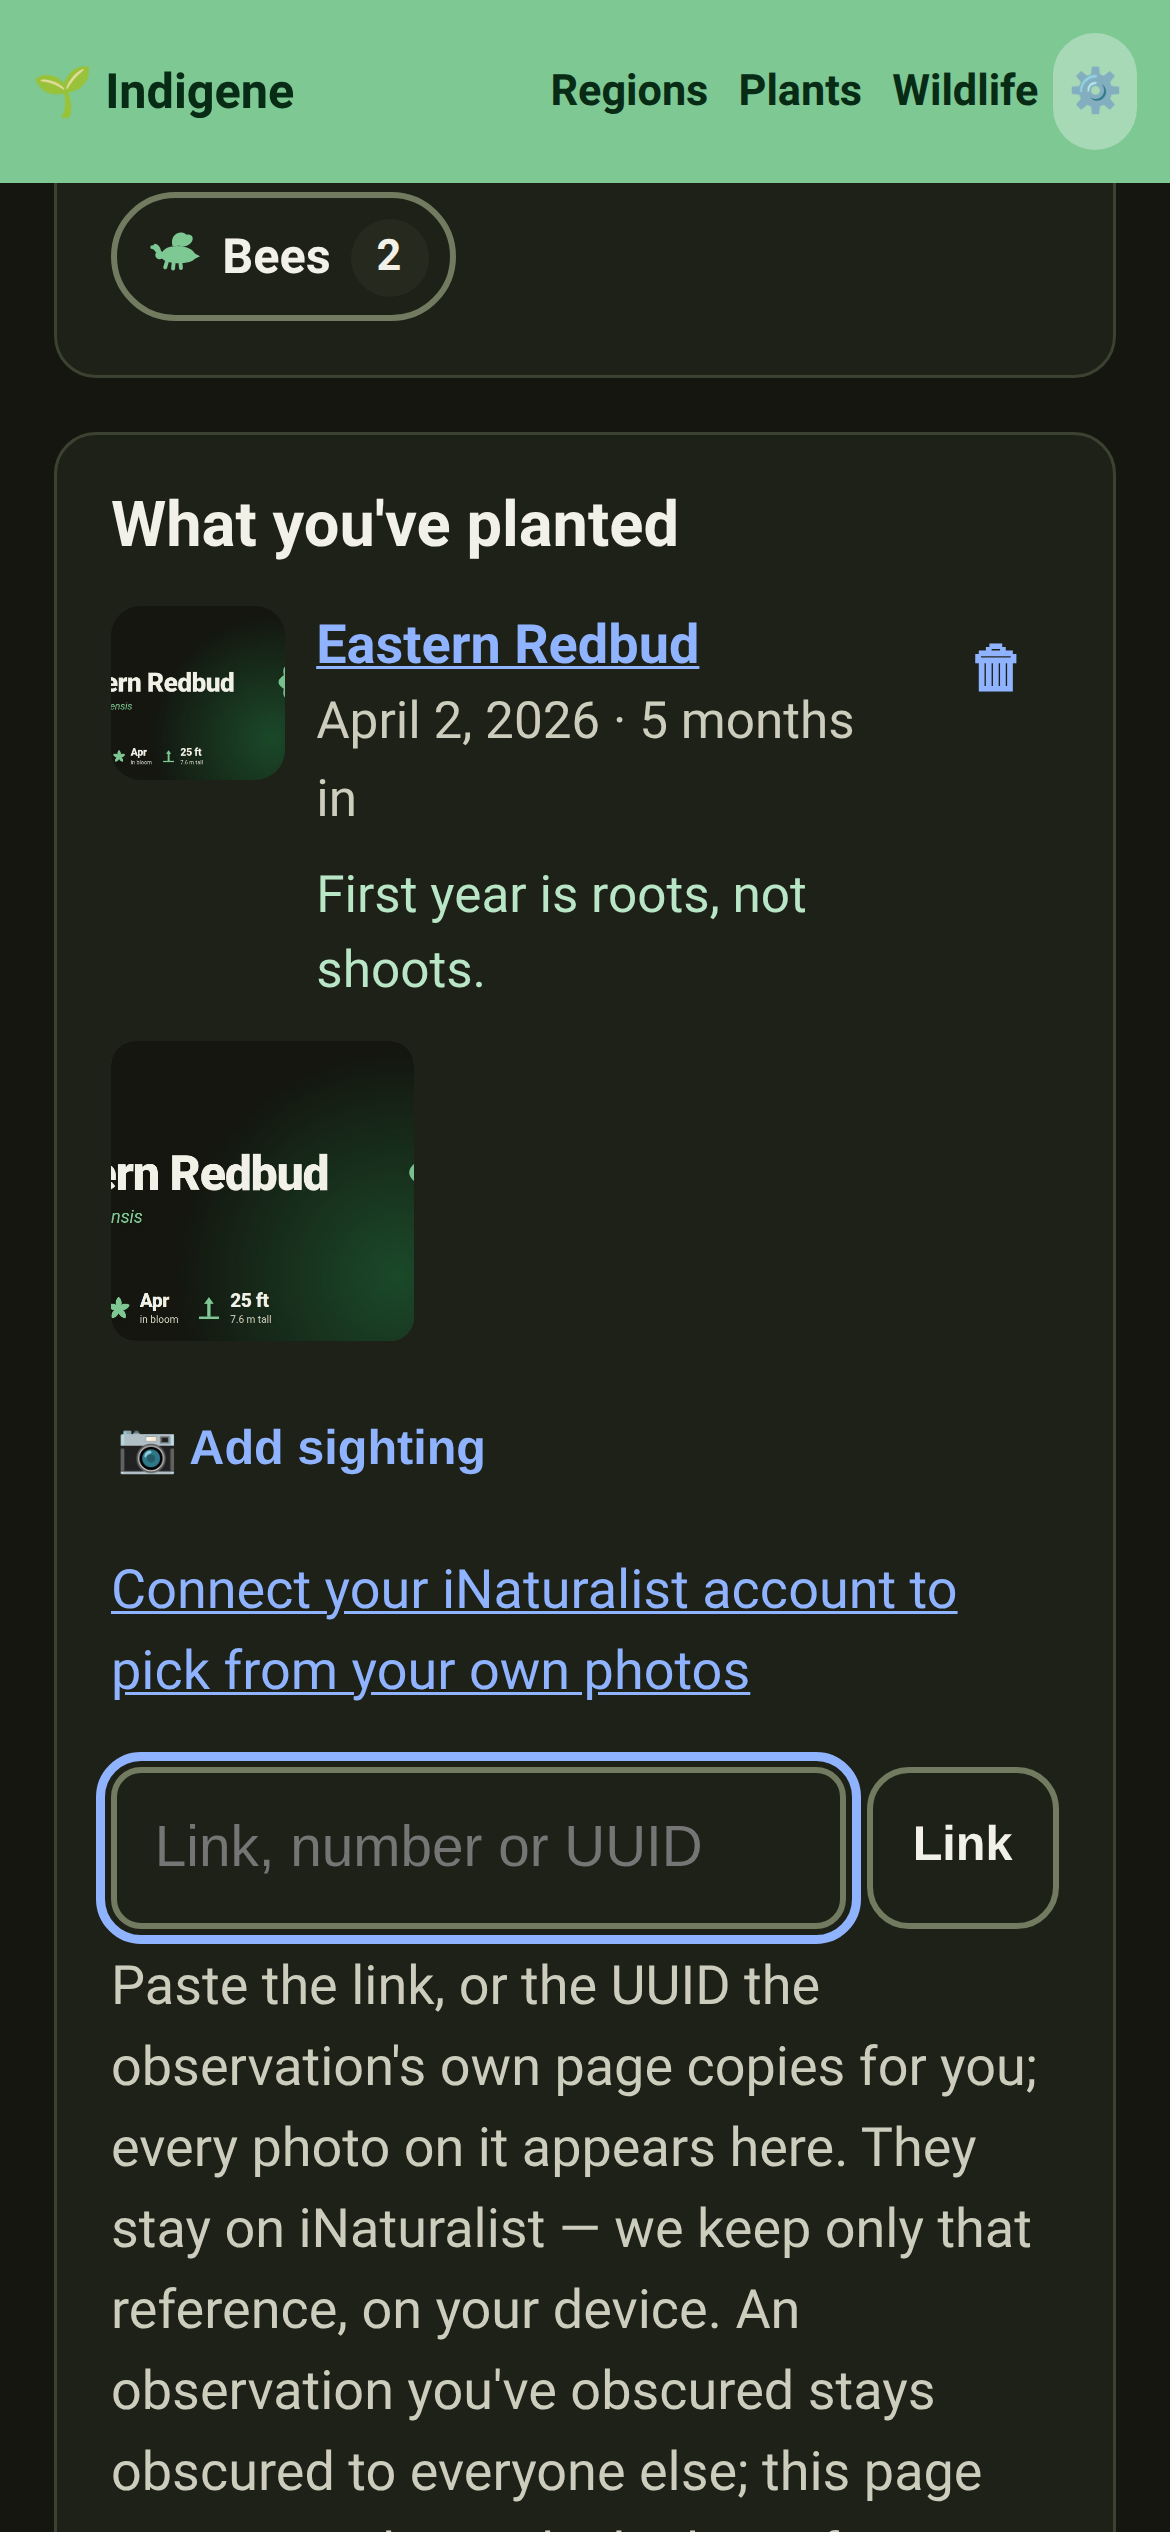
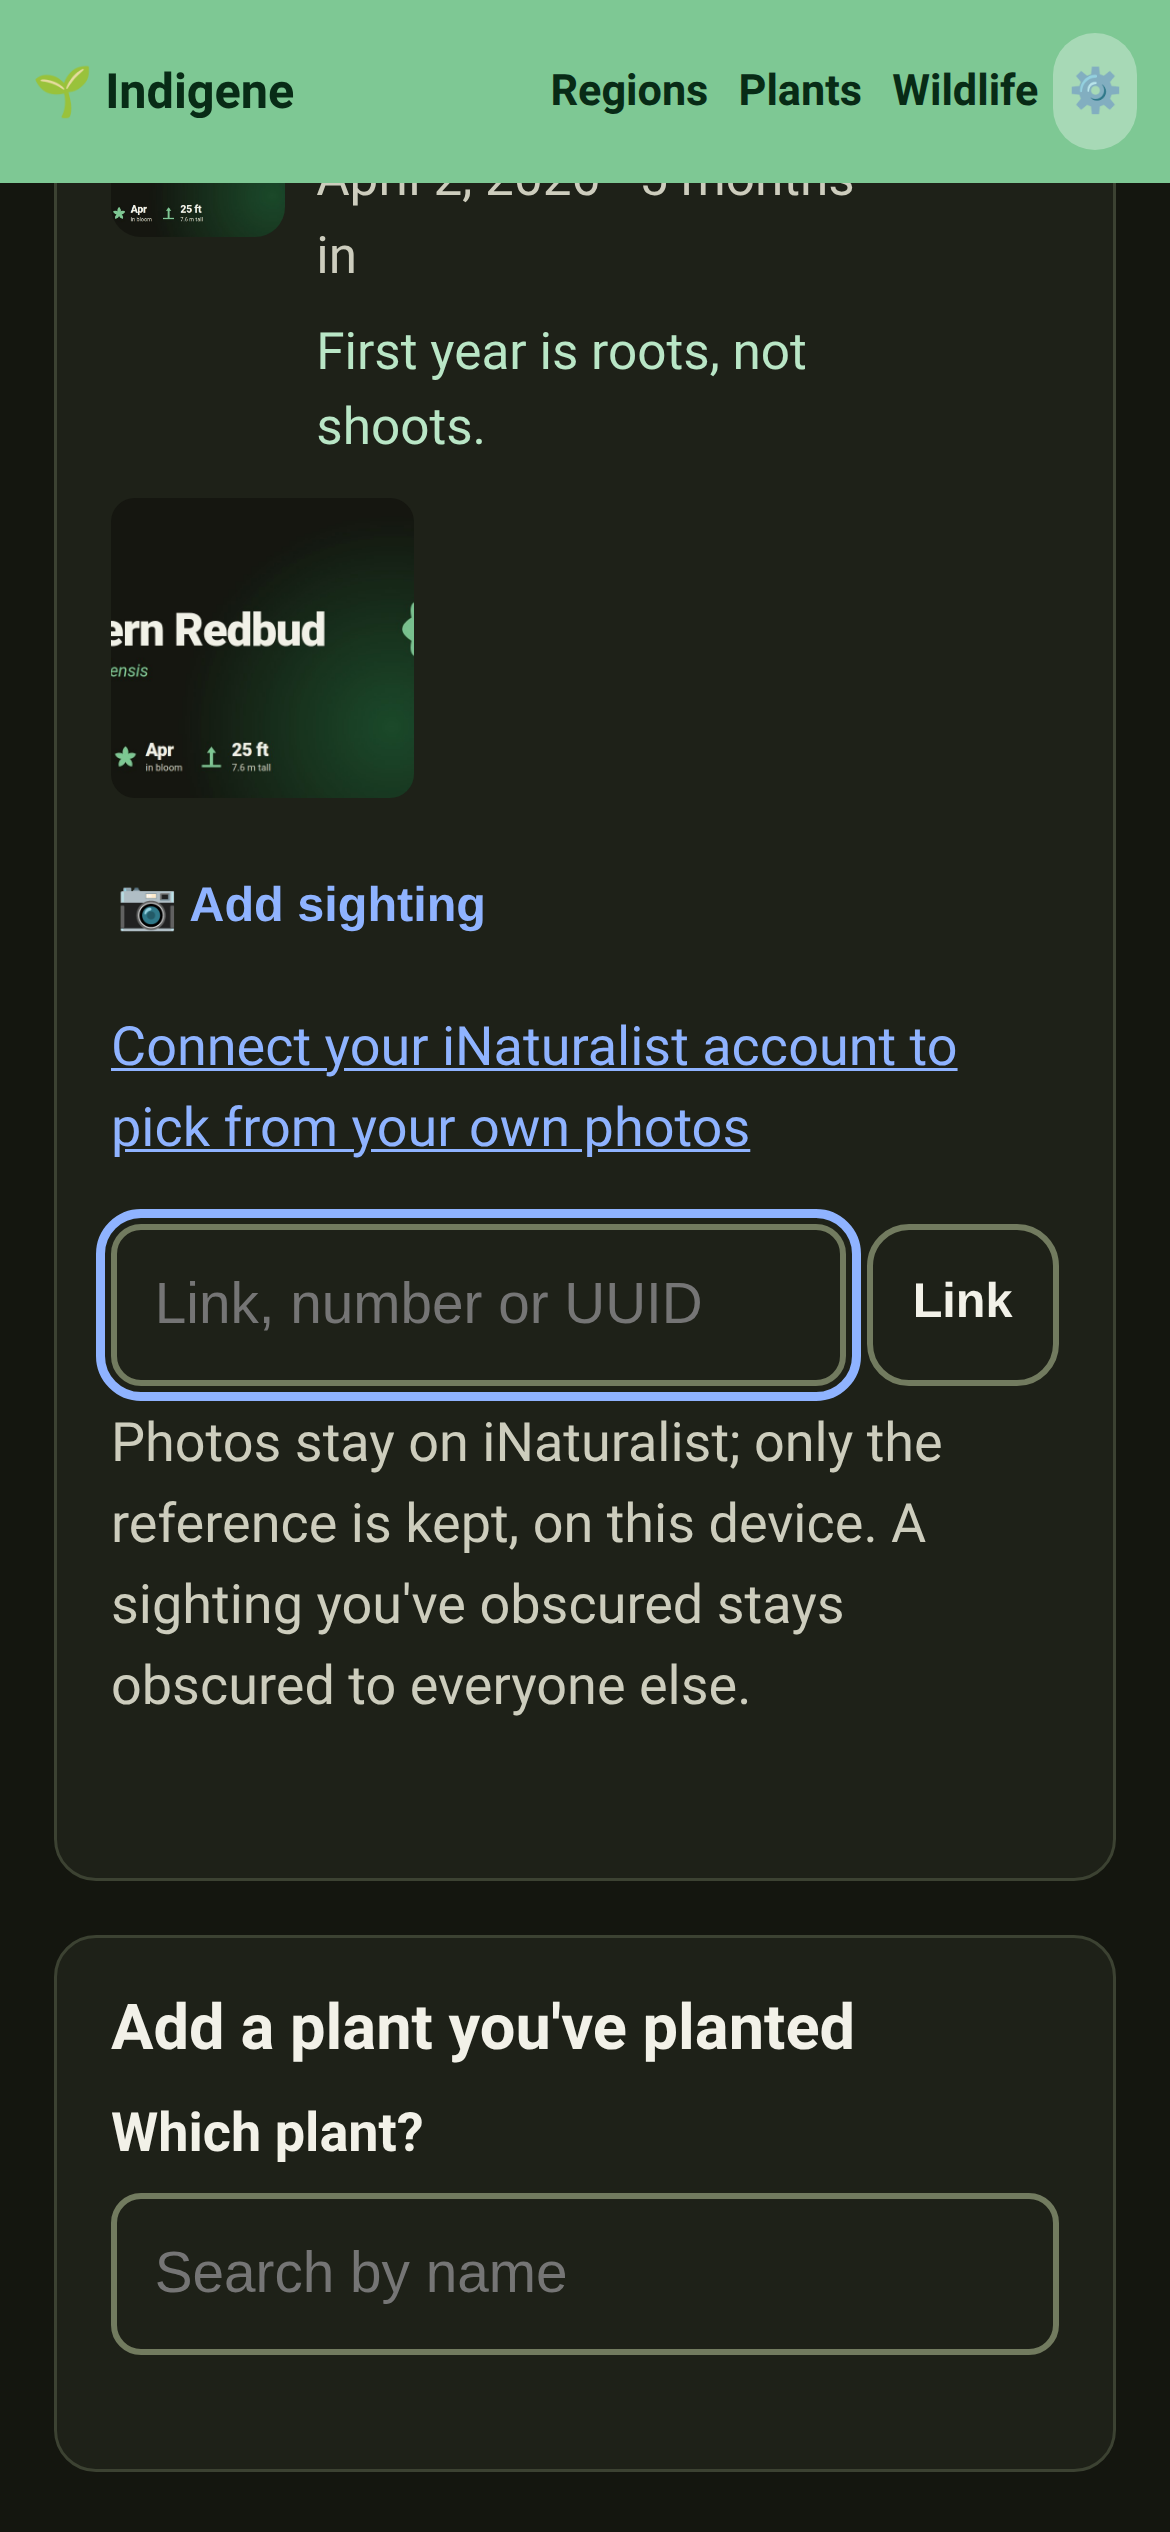
Trim the paste field's help to two lines
With the picker above it, the nine-line explanation under the paste field
pushed the form off a phone screen. Keep the two facts that matter: photos
stay on iNaturalist, and an obscured sighting stays obscured. Re-shoot the
after screenshots.

Claude-Session: https://claude.ai/code/session_018zzsiDNQMxPTZfDvDW2S5X

diff --git a/app/src/locales/fr.ts b/app/src/locales/fr.ts
@@ -328,7 +328,7 @@ export const fr: Dict = {
   "spot.obsPlaceholder": "Lien, numéro ou UUID",
   "spot.obsAdd": "Relier",
   "spot.obsHelp":
-    "Collez le lien, ou l'UUID que la page de l'observation copie pour vous ; toutes ses photos apparaissent ici. Elles restent sur iNaturalist — nous ne gardons que cette référence, sur votre appareil. Une observation que vous avez rendue floue le reste pour tout le monde ; cette page se souvient seulement de laquelle de vos plantes il s'agissait.",
+    "Les photos restent sur iNaturalist ; seule la référence est gardée, sur cet appareil. Une observation rendue floue le reste pour tout le monde.",
   "spot.obsBad": "Ce n'est pas un lien, un numéro ni un UUID que nous reconnaissons.",
   "spot.obsAlready": "Déjà reliée à cette plante.",
   "spot.obsAdded": "Observation reliée.",

diff --git a/app/src/locales/en.ts b/app/src/locales/en.ts
@@ -308,7 +308,7 @@ export const en = {
   "spot.obsPlaceholder": "Link, number or UUID",
   "spot.obsAdd": "Link",
   "spot.obsHelp":
-    "Paste the link, or the UUID the observation's own page copies for you; every photo on it appears here. They stay on iNaturalist — we keep only that reference, on your device. An observation you've obscured stays obscured to everyone else; this page just remembers which plant of yours it was.",
+    "Photos stay on iNaturalist; only the reference is kept, on this device. A sighting you've obscured stays obscured to everyone else.",
   "spot.obsBad": "That isn't a link, number or UUID we recognise.",
   "spot.obsAlready": "Already linked to this plant.",
   "spot.obsAdded": "Sighting linked.",
